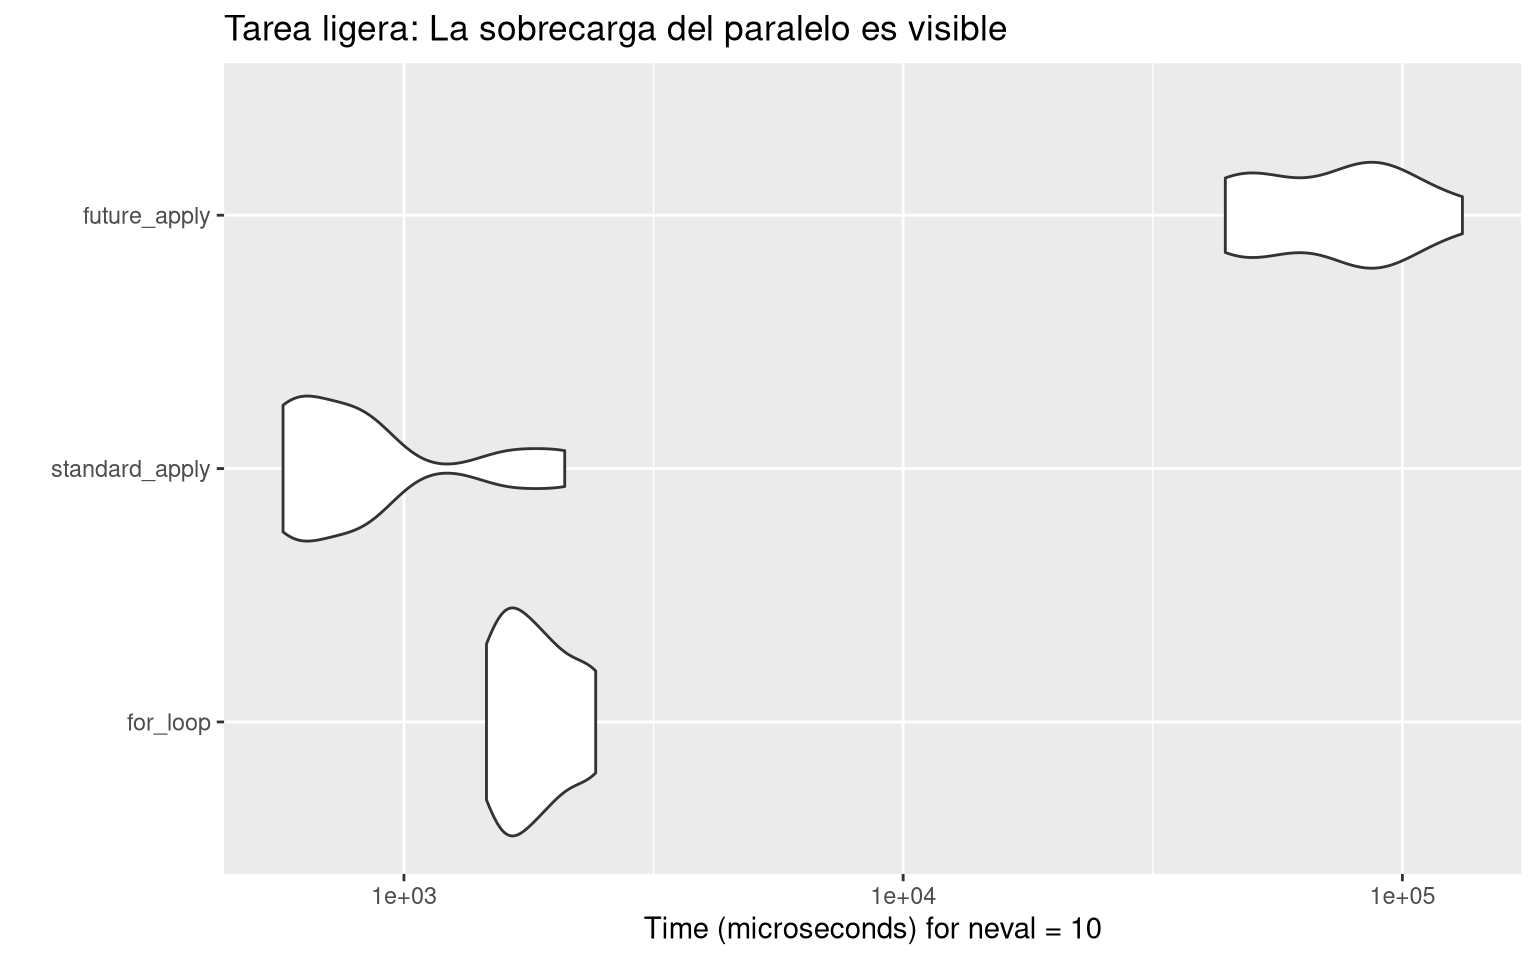
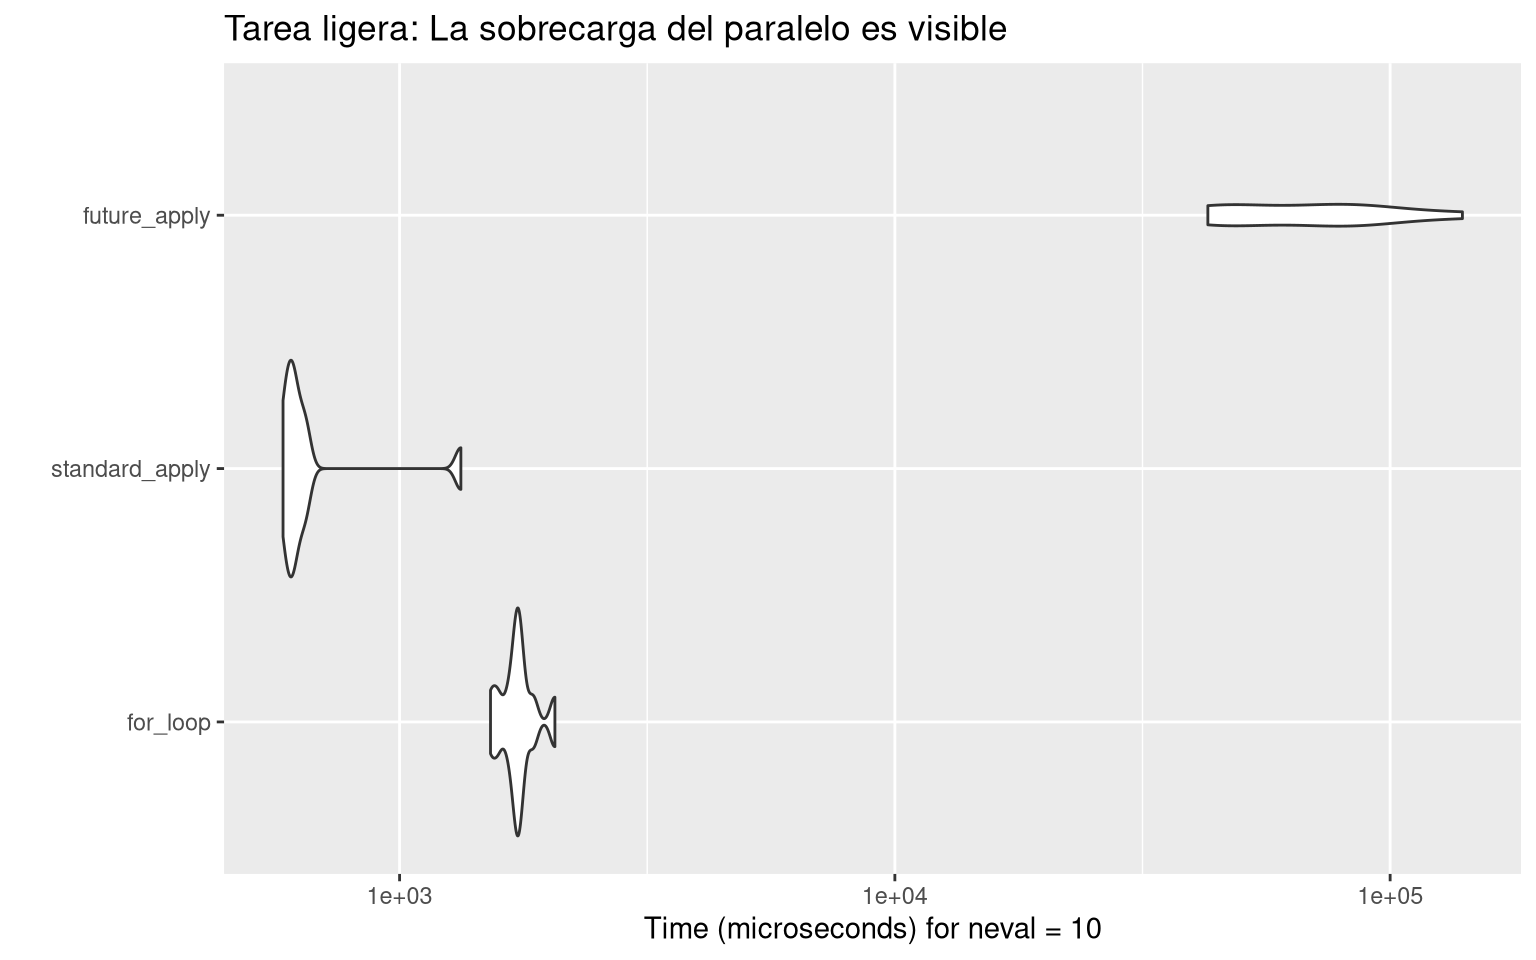
convert tutorials to series

diff --git a/content/programming/r/future_apply/index.es.md b/content/programming/r/future_apply/index.es.md
@@ -3,6 +3,10 @@ title: Benchmarking de future.apply
 author: Urtzi Enriquez-Urzelai
 date: 2026-03-25T00:00:00.000Z
 weight: 10
+series:
+  - R Tutoriales
+series_order: 1
+showPagination: false
 summary: >-
   Los bucles for se utilizan habitualmente para realizar tareas en serie. Sin
   embargo, la familia de funciones apply y el nuevo framework (future.apply)
@@ -49,9 +53,9 @@ kable(summary(bench_cheap), caption = "Resultados de la tarea ligera (milisegund
 
 | expr | min | lq | mean | median | uq | max | neval |
 |:------------|--------:|--------:|---------:|---------:|--------:|---------:|-----:|
-| for_loop | 1463.298 | 1577.225 | 1852.6800 | 1781.3680 | 2050.745 | 2421.552 | 10 |
-| standard_apply | 572.569 | 602.659 | 930.8508 | 757.4185 | 877.305 | 2099.357 | 10 |
-| future_apply | 44190.360 | 48779.636 | 76063.6181 | 80894.5395 | 92133.087 | 131910.444 | 10 |
+| for_loop | 1526.106 | 1660.558 | 1737.2113 | 1724.8730 | 1767.877 | 2058.762 | 10 |
+| standard_apply | 581.668 | 600.766 | 683.3103 | 610.2285 | 644.566 | 1329.651 | 10 |
+| future_apply | 42850.048 | 46636.701 | 72920.2842 | 70995.9105 | 87396.966 | 139938.649 | 10 |
 
 Resultados de la tarea ligera (milisegundos)
 
@@ -93,11 +97,11 @@ bench_expensive <- microbenchmark(
 kable(summary(bench_expensive), caption = "Resultados de la tarea pesada (segundos)")
 ```
 
-| expr | min | lq | mean | median | uq | max | neval |
+| expr           |       min |        lq |     mean |   median |        uq |       max | neval |
 |:------------|--------:|--------:|--------:|--------:|--------:|--------:|-----:|
-| for_loop | 2013.9792 | 2013.9792 | 2014.2554 | 2014.2554 | 2014.5315 | 2014.5315 | 2 |
-| standard_apply | 2008.4532 | 2008.4532 | 2009.3416 | 2009.3416 | 2010.2299 | 2010.2299 | 2 |
-| future_apply | 284.0194 | 284.0194 | 288.7829 | 288.7829 | 293.5463 | 293.5463 | 2 |
+| for_loop       | 2010.3002 | 2010.3002 | 2012.249 | 2012.249 | 2014.1975 | 2014.1975 |     2 |
+| standard_apply | 2008.0148 | 2008.0148 | 2008.313 | 2008.313 | 2008.6106 | 2008.6106 |     2 |
+| future_apply   |  286.0831 |  286.0831 |  288.471 |  288.471 |  290.8588 |  290.8588 |     2 |
 
 Resultados de la tarea pesada (segundos)
 

diff --git a/content/programming/r/future_apply/index.eu.md b/content/programming/r/future_apply/index.eu.md
@@ -3,6 +3,10 @@ title: future.apply-rekin benchmarking-a egiten
 author: Urtzi Enriquez-Urzelai
 date: 2026-03-25T00:00:00.000Z
 weight: 10
+series:
+  - R Tutorialak
+series_order: 1
+showPagination: false
 summary: >-
   For-loop-ak oso erabiliak dira zereginak seriean egiteko. Hala ere, "apply"
   familiako funtzioek eta esparru berri batek (future.apply) zeregin horiek
@@ -48,10 +52,10 @@ kable(summary(bench_cheap), caption = "Zeregin merkearen emaitzak (milisegundoak
 ```
 
 | expr | min | lq | mean | median | uq | max | neval |
-|:------------|--------:|--------:|---------:|--------:|--------:|---------:|-----:|
-| for_loop | 1597.582 | 1642.186 | 1887.5209 | 1727.636 | 1860.513 | 3384.067 | 10 |
-| standard_apply | 583.710 | 589.074 | 663.2824 | 625.522 | 726.864 | 857.901 | 10 |
-| future_apply | 41581.888 | 43988.588 | 67064.7123 | 59031.182 | 88363.362 | 123925.270 | 10 |
+|:------------|--------:|--------:|--------:|--------:|--------:|---------:|-----:|
+| for_loop | 1626.834 | 1680.241 | 1772.718 | 1740.202 | 1815.745 | 2008.491 | 10 |
+| standard_apply | 576.123 | 589.844 | 1079.011 | 619.582 | 1546.017 | 2448.915 | 10 |
+| future_apply | 42978.283 | 44313.255 | 68627.230 | 70632.849 | 78685.548 | 117420.592 | 10 |
 
 Zeregin merkearen emaitzak (milisegundoak)
 
@@ -95,9 +99,9 @@ kable(summary(bench_expensive), caption = "Zeregin garestiaren emaitzak (segundo
 
 | expr | min | lq | mean | median | uq | max | neval |
 |:------------|--------:|--------:|--------:|--------:|--------:|--------:|-----:|
-| for_loop | 2009.3005 | 2009.3005 | 2012.4186 | 2012.4186 | 2015.5367 | 2015.5367 | 2 |
-| standard_apply | 2008.4625 | 2008.4625 | 2008.5676 | 2008.5676 | 2008.6726 | 2008.6726 | 2 |
-| future_apply | 284.3551 | 284.3551 | 288.7213 | 288.7213 | 293.0876 | 293.0876 | 2 |
+| for_loop | 2009.2834 | 2009.2834 | 2012.1795 | 2012.1795 | 2015.0756 | 2015.0756 | 2 |
+| standard_apply | 2008.4217 | 2008.4217 | 2010.7083 | 2010.7083 | 2012.9950 | 2012.9950 | 2 |
+| future_apply | 293.2761 | 293.2761 | 296.5502 | 296.5502 | 299.8244 | 299.8244 | 2 |
 
 Zeregin garestiaren emaitzak (segundoak)
 

diff --git a/content/programming/r/future_apply/index.md b/content/programming/r/future_apply/index.md
@@ -3,6 +3,10 @@ title: Benchmarking future.apply
 author: Urtzi Enriquez-Urzelai
 date: 2026-03-25T00:00:00.000Z
 weight: 10
+series:
+  - R Tutorials
+series_order: 1
+showPagination: false
 summary: >-
   For loops are very commonly used for performing tasks in series. However, the
   apply family of functions and a new framework (future.apply) allow to perform
@@ -48,10 +52,10 @@ kable(summary(bench_cheap), caption = "Cheap Task Results (milliseconds)")
 ```
 
 | expr | min | lq | mean | median | uq | max | neval |
-|:------------|--------:|--------:|---------:|---------:|--------:|---------:|-----:|
-| for_loop | 1559.343 | 1661.762 | 1964.0086 | 1811.4175 | 1960.423 | 3529.293 | 10 |
-| standard_apply | 573.510 | 579.167 | 622.6739 | 597.7205 | 620.955 | 857.438 | 10 |
-| future_apply | 43631.221 | 44972.875 | 66035.7896 | 51369.2755 | 82316.685 | 132553.906 | 10 |
+|:------------|--------:|--------:|---------:|--------:|--------:|---------:|-----:|
+| for_loop | 1505.470 | 1620.460 | 1750.1643 | 1726.318 | 1758.551 | 2243.338 | 10 |
+| standard_apply | 570.936 | 592.062 | 711.7003 | 683.718 | 832.524 | 973.899 | 10 |
+| future_apply | 41967.412 | 44640.056 | 70149.5995 | 56952.688 | 92128.300 | 146645.257 | 10 |
 
 Cheap Task Results (milliseconds)
 
@@ -97,9 +101,9 @@ kable(summary(bench_expensive), caption = "Expensive Task Results (seconds)")
 
 | expr | min | lq | mean | median | uq | max | neval |
 |:------------|--------:|--------:|--------:|--------:|--------:|--------:|-----:|
-| for_loop | 2014.6665 | 2014.6665 | 2015.7225 | 2015.7225 | 2016.7784 | 2016.7784 | 2 |
-| standard_apply | 2007.9510 | 2007.9510 | 2008.2138 | 2008.2138 | 2008.4767 | 2008.4767 | 2 |
-| future_apply | 294.6247 | 294.6247 | 301.0491 | 301.0491 | 307.4736 | 307.4736 | 2 |
+| for_loop | 2009.6924 | 2009.6924 | 2010.7566 | 2010.7566 | 2011.8208 | 2011.8208 | 2 |
+| standard_apply | 2008.1581 | 2008.1581 | 2008.3821 | 2008.3821 | 2008.6062 | 2008.6062 | 2 |
+| future_apply | 285.5616 | 285.5616 | 292.2592 | 292.2592 | 298.9567 | 298.9567 | 2 |
 
 Expensive Task Results (seconds)
 

diff --git a/content/programming/julia/statistics/index.es.md b/content/programming/julia/statistics/index.es.md
@@ -3,6 +3,10 @@ title: Análisis de datos en Julia
 author: Urtzi Enriquez-Urzelai
 date: 2025-03-27T00:00:00.000Z
 weight: 30
+series:
+  - Julia Tutoriales
+series_order: 3
+showPagination: false
 summary: >-
   Esta publicación aborda algunos aspectos de los análisis estadísticos
   exploratorios, así como algunos conceptos básicos del contraste de hipótesis

diff --git a/content/programming/julia/statistics/index.eu.md b/content/programming/julia/statistics/index.eu.md
@@ -3,6 +3,10 @@ title: Datuen analisia Julia-rekin
 author: Urtzi Enriquez-Urzelai
 date: 2025-03-27T00:00:00.000Z
 weight: 30
+series:
+  - Julia Tutorialak
+series_order: 3
+showPagination: false
 summary: >-
   Sarrera honek estatistika esploratzailearen alderdi batzuk eta
   hipotesi-kontrastearen oinarriak lantzen ditu

diff --git a/content/programming/julia/statistics/index.md b/content/programming/julia/statistics/index.md
@@ -3,6 +3,10 @@ title: Data analysis in Julia
 author: Urtzi Enriquez-Urzelai
 date: 2025-03-27T00:00:00.000Z
 weight: 30
+series:
+  - Julia Tutorials
+series_order: 3
+showPagination: false
 summary: >-
   This post touches some aspects of exploratory statistical analyses, as well as
   some basics of hypothesis testing

diff --git a/content/programming/julia/making_plots/index.es.md b/content/programming/julia/making_plots/index.es.md
@@ -3,6 +3,10 @@ title: Creación de gráficos con Makie.jl
 author: Urtzi Enriquez-Urzelai
 date: 2025-03-26T00:00:00.000Z
 weight: 20
+series:
+  - Julia Tutoriales
+series_order: 2
+showPagination: false
 summary: Una visión general sobre cómo crear gráficos con el framework Makie en Julia
 tags:
   - Julia

diff --git a/content/programming/julia/making_plots/index.eu.md b/content/programming/julia/making_plots/index.eu.md
@@ -3,6 +3,10 @@ title: Grafikoak Makie.jl-rekin egiten
 author: Urtzi Enriquez-Urzelai
 date: 2025-03-26T00:00:00.000Z
 weight: 20
+series:
+  - Julia Tutorialak
+series_order: 2
+showPagination: false
 summary: Julia-ko Makie esparruarekin grafikoak nola egin jakiteko ikuspegi orokorra
 tags:
   - Julia

diff --git a/content/programming/julia/making_plots/index.md b/content/programming/julia/making_plots/index.md
@@ -3,6 +3,10 @@ title: Making plots with Makie.jl
 author: Urtzi Enriquez-Urzelai
 date: 2025-03-26T00:00:00.000Z
 weight: 20
+series:
+  - Julia Tutorials
+series_order: 2
+showPagination: false
 summary: An overview on how to make plots with the Makie framework in Julia
 tags:
   - Julia

diff --git a/content/programming/julia/dataframes/index.eu.md b/content/programming/julia/dataframes/index.eu.md
@@ -3,6 +3,10 @@ title: DataFrames.jl erabiltzen
 author: Urtzi Enriquez-Urzelai
 date: 2026-03-25T00:00:00.000Z
 weight: 10
+series:
+  - Julia Tutorialak
+series_order: 1
+showPagination: false
 summary: Julia-ko DataFrames paketea erabiltzeko sarrera labur-laburra
 tags:
   - Julia

diff --git a/content/programming/julia/dataframes/index.md b/content/programming/julia/dataframes/index.md
@@ -3,6 +3,10 @@ title: Using DataFrames.jl
 author: Urtzi Enriquez-Urzelai
 date: 2026-03-25T00:00:00.000Z
 weight: 10
+series:
+  - Julia Tutorials
+series_order: 1
+showPagination: false
 summary: A very brief introduction on using the DataFrames package in Julia
 tags:
   - Julia

diff --git a/content/programming/julia/dataframes/index.es.md b/content/programming/julia/dataframes/index.es.md
@@ -3,6 +3,10 @@ title: Uso de DataFrames.jl
 author: Urtzi Enriquez-Urzelai
 date: 2026-03-25T00:00:00.000Z
 weight: 10
+series:
+  - Julia Tutoriales
+series_order: 1
+showPagination: false
 summary: Una breve introducción al uso del paquete DataFrames en Julia
 tags:
   - Julia
